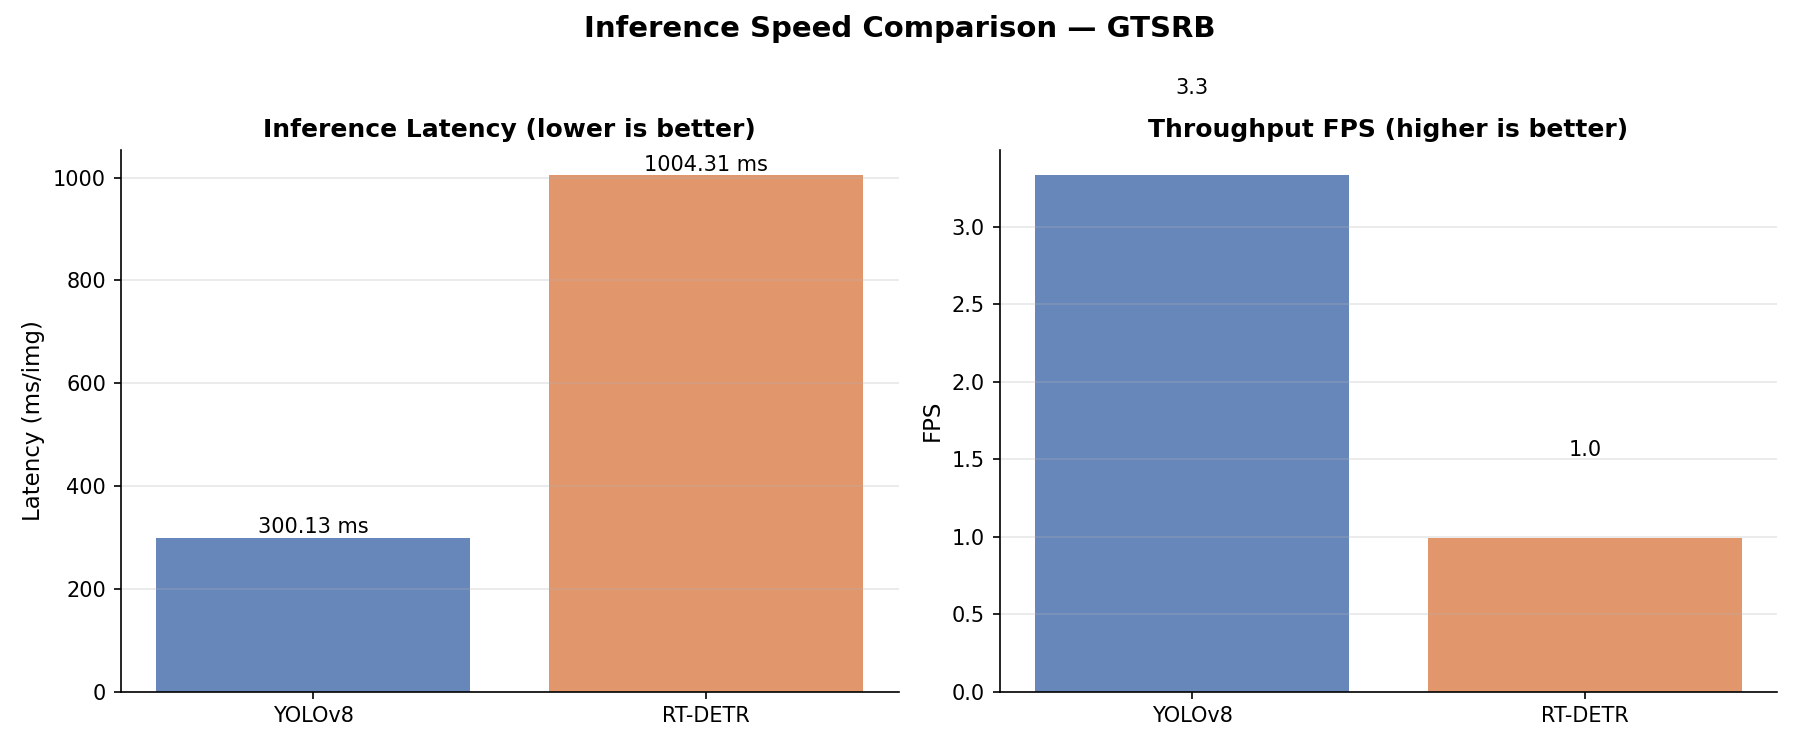
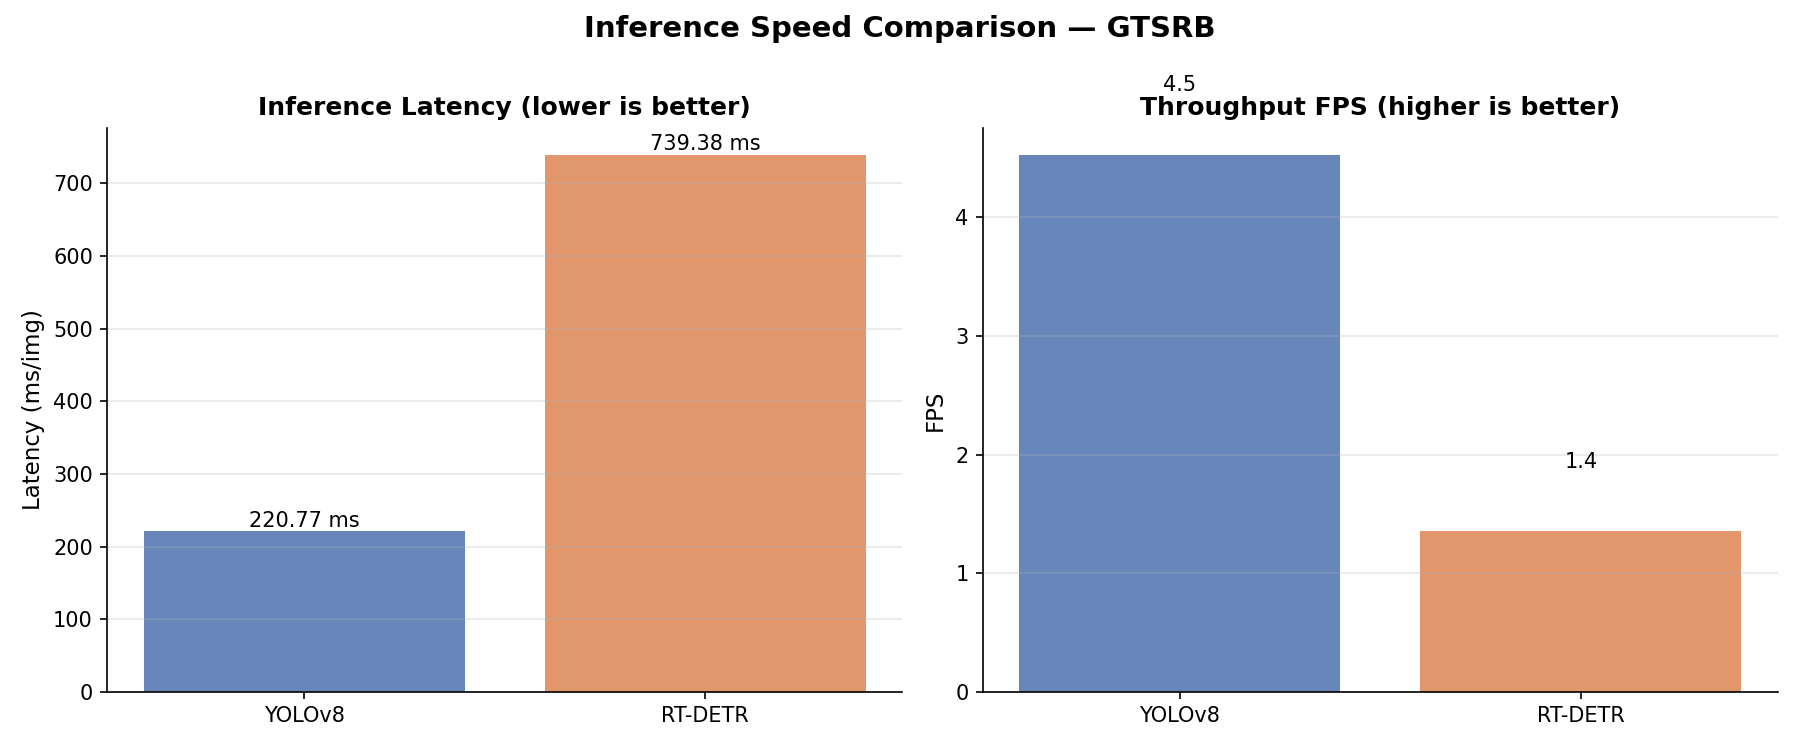
fix:微调超参

diff --git a/scripts/evaluate.py b/scripts/evaluate.py
@@ -17,6 +17,7 @@ scripts/evaluate.py —— 双模型性能对比评估脚本
 """
 
 import os
+from typing import Optional
 import sys
 import time
 import random
@@ -43,13 +44,13 @@ from ultralytics import YOLO, RTDETR
 # ============================================================
 ROOT       = Path(__file__).resolve().parents[1]
 DATA_YAML  = ROOT / "data" / "gtsrb.yaml"
-OUTPUT_DIR = ROOT / "etc" / "eval_results"
+OUTPUT_DIR = ROOT / "etc" / "eval_results_epoch6"
 OUTPUT_DIR.mkdir(parents=True, exist_ok=True)
 
 # 模型列表：(显示名称, 权重路径, 模型类)
 MODELS = [
     ("YOLOv8",   str(ROOT / "runs" / "train" / "exp_yolov8" / "weights" / "best.pt"), YOLO),
-    ("RT-DETR",  str(ROOT / "runs" / "train" / "exp"        / "weights" / "best.pt"), RTDETR),
+    ("RT-DETR",  str(ROOT / "runs" / "train" / "exp_rtdetr_epoch6" / "weights" / "best.pt"), RTDETR),
 ]
 
 IMG_SIZE   = 640
@@ -160,6 +161,14 @@ def eval_model(name: str, weights: str, model_cls, data_yaml: str) -> dict:
 
     speed_ms = val_result.speed.get("inference", 0.0)
 
+    # 提取 P-R 曲线数据（每类别在各置信度阈值下的精确率 / 召回率，shape [nc, 1000]）
+    try:
+        p_curve = np.array(val_result.box.p_curve)  # (nc, 1000)
+        r_curve = np.array(val_result.box.r_curve)  # (nc, 1000)
+    except AttributeError:
+        p_curve = None
+        r_curve = None
+
     metrics = {
         "name":       name,
         "weights":    weights,
@@ -169,6 +178,8 @@ def eval_model(name: str, weights: str, model_cls, data_yaml: str) -> dict:
         "map5095":    map5095,
         "speed_ms":   speed_ms,
         "fps":        1000.0 / speed_ms if speed_ms > 0 else 0.0,
+        "p_curve":    p_curve,
+        "r_curve":    r_curve,
     }
 
     print(f"  Precision : {mp:.4f}")
@@ -222,6 +233,61 @@ def plot_bar_comparison(results: list):
     return str(out)
 
 
+def plot_pr_curve_comparison(results: list):
+    """生成各模型 Precision-Recall 曲线叠加对比图。"""
+    model_colors = ["#4C72B0", "#DD8452", "#55A868", "#C44E52"]
+
+    fig, ax = plt.subplots(figsize=(9, 6))
+    has_data = False
+
+    for i, res in enumerate(results):
+        p_curve = res.get("p_curve")
+        r_curve = res.get("r_curve")
+
+        if p_curve is None or r_curve is None:
+            print(f"  ⚠️  {res['name']} 无曲线数据，跳过")
+            continue
+
+        # 对所有类别取均值 → shape (1000,)
+        mean_p = np.array(p_curve).mean(axis=0)
+        mean_r = np.array(r_curve).mean(axis=0)
+
+        # 按 Recall 升序排列，曲线更平滑
+        sort_idx   = np.argsort(mean_r)
+        mean_r_srt = mean_r[sort_idx]
+        mean_p_srt = mean_p[sort_idx]
+
+        ax.plot(
+            mean_r_srt, mean_p_srt,
+            color=model_colors[i % len(model_colors)],
+            linewidth=2.5,
+            label=f"{res['name']}  (mAP@0.5={res['map50']:.3f})",
+        )
+        has_data = True
+
+    if not has_data:
+        print("  ⚠️  所有模型均无曲线数据，跳过 P-R 图生成")
+        plt.close()
+        return None
+
+    ax.set_xlabel("Recall", fontsize=12)
+    ax.set_ylabel("Precision", fontsize=12)
+    ax.set_xlim(0, 1)
+    ax.set_ylim(0, 1.05)
+    ax.set_title("Precision-Recall Curve — GTSRB (All Classes Mean)", fontsize=14, fontweight="bold")
+    ax.legend(fontsize=11)
+    ax.grid(alpha=0.3)
+    ax.spines["top"].set_visible(False)
+    ax.spines["right"].set_visible(False)
+
+    out = OUTPUT_DIR / "pr_curve.png"
+    plt.tight_layout()
+    plt.savefig(out, dpi=150)
+    plt.close()
+    print(f"\n📈 P-R 曲线已保存: {out}")
+    return str(out)
+
+
 def plot_speed_comparison(results: list):
     """生成速度对比图。"""
     names    = [r["name"] for r in results]
@@ -268,7 +334,7 @@ def plot_speed_comparison(results: list):
 # 报告
 # ============================================================
 
-def generate_report(results: list, bar_img: str, speed_img: str, n_samples: int):
+def generate_report(results: list, bar_img: str, speed_img: str, pr_img: Optional[str], n_samples: int):
     """生成 Markdown 格式评估报告。"""
     lines = []
     lines.append("# 交通标志检测模型性能对比报告\n")
@@ -290,6 +356,9 @@ def generate_report(results: list, bar_img: str, speed_img: str, n_samples: int)
     lines.append(f"![精度对比]({bar_img})\n")
     lines.append(f"\n## 速度对比图\n")
     lines.append(f"![速度对比]({speed_img})\n")
+    if pr_img:
+        lines.append(f"\n## Precision-Recall 曲线\n")
+        lines.append(f"![PR曲线]({pr_img})\n")
 
     lines.append("\n## 结论分析\n")
     if len(results) >= 2:
@@ -351,7 +420,8 @@ def main():
     # 生成图表和报告
     bar_img   = plot_bar_comparison(results)
     speed_img = plot_speed_comparison(results)
-    report    = generate_report(results, bar_img, speed_img, n_samples)
+    pr_img    = plot_pr_curve_comparison(results)
+    report    = generate_report(results, bar_img, speed_img, pr_img, n_samples)
 
     # 清理临时目录
     tmp_dir = ROOT / "etc" / "_eval_tmp"

diff --git a/etc/eval_results/report.md b/etc/eval_results/report.md
@@ -2,14 +2,13 @@
 
 > 数据集：GTSRB（43类交通标志）
 > 评估样本数：500 张图片
-> 评估时间：2026-02-23 01:00:45
+> 评估时间：2026-03-13 21:34:25
 
 ## 评估指标汇总
-
-| 模型 | Precision | Recall | mAP@0.5 | mAP@0.5:0.95 | 延迟(ms/img) | FPS |
+| 模型| 训练轮次 | Precision | Recall | mAP@0.5 | mAP@0.5:0.95 | 延迟(ms/img) | FPS |
 |------|-----------|--------|---------|--------------|-------------|-----|
-| YOLOv8 | 0.8317 | 0.9529 | 0.9822 | 0.8710 | 300.13 | 3.3 |
-| RT-DETR | 0.9387 | 0.8984 | 0.9165 | 0.7736 | 1004.31 | 1.0 |
+| YOLOv8 | 3 | 0.8317 | 0.9529 | 0.9822 | 0.8710 | 220.77 | 4.5 |
+| RT-DETR | 3 | 0.9387 | 0.8984 | 0.9165 | 0.7736 | 739.38 | 1.4 |
 
 ## 精度对比图
 
@@ -21,19 +20,24 @@
 ![速度对比](D:\traffic-sign-rtdetr\etc\eval_results\speed_comparison.png)
 
 
+## Precision-Recall 曲线
+
+![PR曲线](D:\traffic-sign-rtdetr\etc\eval_results\pr_curve.png)
+
+
 ## 结论分析
 
 - **精度最佳**：YOLOv8（mAP@0.5 = 0.9822）
-- **速度最快**：YOLOv8（3.3 FPS）
+- **速度最快**：YOLOv8（4.5 FPS）
 
 ### YOLOv8
 - 权重路径：`D:\traffic-sign-rtdetr\runs\train\exp_yolov8\weights\best.pt`
 - mAP@0.5 = **0.9822**，mAP@0.5:0.95 = 0.8710
 - Precision = 0.8317，Recall = 0.9529
-- 推理延迟 = 300.13 ms，吞吐量 = 3.3 FPS
+- 推理延迟 = 220.77 ms，吞吐量 = 4.5 FPS
 
 ### RT-DETR
 - 权重路径：`D:\traffic-sign-rtdetr\runs\train\exp\weights\best.pt`
 - mAP@0.5 = **0.9165**，mAP@0.5:0.95 = 0.7736
 - Precision = 0.9387，Recall = 0.8984
-- 推理延迟 = 1004.31 ms，吞吐量 = 1.0 FPS
+- 推理延迟 = 739.38 ms，吞吐量 = 1.4 FPS